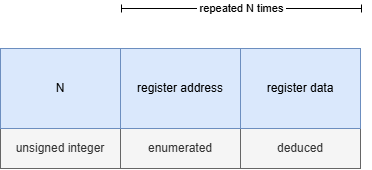
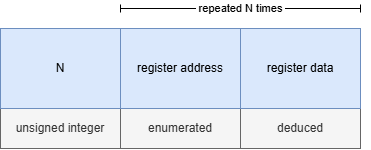
update of TM[2,6]

diff --git a/img/PUSpkt_2_6.html b/img/PUSpkt_2_6.html
@@ -2,11 +2,11 @@
 <!DOCTYPE html>
 <html>
 <head>
-<title>PUS TM[2,6].html</title>
+<title>PUSpkt_2_6.html</title>
 <meta charset="utf-8"/>
 </head>
 <body>
-<div class="mxgraph" style="max-width:100%;border:1px solid transparent;" data-mxgraph="{&quot;highlight&quot;:&quot;#0000ff&quot;,&quot;nav&quot;:true,&quot;resize&quot;:true,&quot;xml&quot;:&quot;&lt;mxfile host=\&quot;app.diagrams.net\&quot;&gt;&lt;diagram name=\&quot;Página-1\&quot; id=\&quot;PEEKEmfRfW4e5rl4SAep\&quot;&gt;&lt;mxGraphModel dx=\&quot;456\&quot; dy=\&quot;462\&quot; grid=\&quot;1\&quot; gridSize=\&quot;10\&quot; guides=\&quot;1\&quot; tooltips=\&quot;1\&quot; connect=\&quot;1\&quot; arrows=\&quot;1\&quot; fold=\&quot;1\&quot; page=\&quot;1\&quot; pageScale=\&quot;1\&quot; pageWidth=\&quot;1169\&quot; pageHeight=\&quot;827\&quot; math=\&quot;0\&quot; shadow=\&quot;0\&quot;&gt;&lt;root&gt;&lt;mxCell id=\&quot;0\&quot;/&gt;&lt;mxCell id=\&quot;1\&quot; parent=\&quot;0\&quot;/&gt;&lt;mxCell id=\&quot;evMKkM_7Siz1nhXzdx8R-12\&quot; parent=\&quot;1\&quot; style=\&quot;rounded=0;whiteSpace=wrap;html=1;fillColor=#f5f5f5;strokeColor=#666666;fontColor=#333333;\&quot; value=\&quot;unsigned integer\&quot; vertex=\&quot;1\&quot;&gt;&lt;mxGeometry height=\&quot;40\&quot; width=\&quot;120\&quot; x=\&quot;39\&quot; y=\&quot;360\&quot; as=\&quot;geometry\&quot;/&gt;&lt;/mxCell&gt;&lt;mxCell id=\&quot;n6o8E1BFqvfT5n5fjlNs-1\&quot; parent=\&quot;1\&quot; style=\&quot;rounded=0;whiteSpace=wrap;html=1;fillColor=#dae8fc;strokeColor=#6c8ebf;\&quot; value=\&quot;N\&quot; vertex=\&quot;1\&quot;&gt;&lt;mxGeometry height=\&quot;80\&quot; width=\&quot;120\&quot; x=\&quot;39\&quot; y=\&quot;280\&quot; as=\&quot;geometry\&quot;/&gt;&lt;/mxCell&gt;&lt;mxCell id=\&quot;hAPcxWkqHWmj-aMiRUPT-1\&quot; parent=\&quot;1\&quot; style=\&quot;rounded=0;whiteSpace=wrap;html=1;fillColor=#f5f5f5;strokeColor=#666666;fontColor=#333333;\&quot; value=\&quot;enumerated\&quot; vertex=\&quot;1\&quot;&gt;&lt;mxGeometry height=\&quot;40\&quot; width=\&quot;120\&quot; x=\&quot;159\&quot; y=\&quot;360\&quot; as=\&quot;geometry\&quot;/&gt;&lt;/mxCell&gt;&lt;mxCell id=\&quot;hAPcxWkqHWmj-aMiRUPT-2\&quot; parent=\&quot;1\&quot; style=\&quot;rounded=0;whiteSpace=wrap;html=1;fillColor=#dae8fc;strokeColor=#6c8ebf;\&quot; value=\&quot;register address\&quot; vertex=\&quot;1\&quot;&gt;&lt;mxGeometry height=\&quot;80\&quot; width=\&quot;120\&quot; x=\&quot;159\&quot; y=\&quot;280\&quot; as=\&quot;geometry\&quot;/&gt;&lt;/mxCell&gt;&lt;mxCell id=\&quot;hAPcxWkqHWmj-aMiRUPT-3\&quot; parent=\&quot;1\&quot; style=\&quot;rounded=0;whiteSpace=wrap;html=1;fillColor=#f5f5f5;strokeColor=#666666;fontColor=#333333;\&quot; value=\&quot;deduced\&quot; vertex=\&quot;1\&quot;&gt;&lt;mxGeometry height=\&quot;40\&quot; width=\&quot;120\&quot; x=\&quot;279\&quot; y=\&quot;360\&quot; as=\&quot;geometry\&quot;/&gt;&lt;/mxCell&gt;&lt;mxCell id=\&quot;hAPcxWkqHWmj-aMiRUPT-4\&quot; parent=\&quot;1\&quot; style=\&quot;rounded=0;whiteSpace=wrap;html=1;fillColor=#dae8fc;strokeColor=#6c8ebf;\&quot; value=\&quot;register data\&quot; vertex=\&quot;1\&quot;&gt;&lt;mxGeometry height=\&quot;80\&quot; width=\&quot;120\&quot; x=\&quot;279\&quot; y=\&quot;280\&quot; as=\&quot;geometry\&quot;/&gt;&lt;/mxCell&gt;&lt;mxCell id=\&quot;Ldrkiri3xN5ep2TePzsf-1\&quot; edge=\&quot;1\&quot; parent=\&quot;1\&quot; style=\&quot;endArrow=baseDash;html=1;rounded=0;startArrow=baseDash;startFill=0;endFill=0;\&quot; value=\&quot;&amp;amp;nbsp;repeated N times&amp;amp;nbsp;\&quot;&gt;&lt;mxGeometry height=\&quot;50\&quot; relative=\&quot;1\&quot; width=\&quot;50\&quot; as=\&quot;geometry\&quot;&gt;&lt;mxPoint x=\&quot;160\&quot; y=\&quot;240\&quot; as=\&quot;sourcePoint\&quot;/&gt;&lt;mxPoint x=\&quot;400\&quot; y=\&quot;240\&quot; as=\&quot;targetPoint\&quot;/&gt;&lt;/mxGeometry&gt;&lt;/mxCell&gt;&lt;/root&gt;&lt;/mxGraphModel&gt;&lt;/diagram&gt;&lt;/mxfile&gt;&quot;,&quot;toolbar&quot;:&quot;pages zoom layers lightbox&quot;,&quot;page&quot;:0}"></div>
+<div class="mxgraph" style="max-width:100%;border:1px solid transparent;" data-mxgraph="{&quot;highlight&quot;:&quot;#0000ff&quot;,&quot;nav&quot;:true,&quot;resize&quot;:true,&quot;xml&quot;:&quot;&lt;mxfile host=\&quot;app.diagrams.net\&quot;&gt;&lt;diagram name=\&quot;Página-1\&quot; id=\&quot;PEEKEmfRfW4e5rl4SAep\&quot;&gt;&lt;mxGraphModel dx=\&quot;1040\&quot; dy=\&quot;1040\&quot; grid=\&quot;1\&quot; gridSize=\&quot;10\&quot; guides=\&quot;1\&quot; tooltips=\&quot;1\&quot; connect=\&quot;1\&quot; arrows=\&quot;1\&quot; fold=\&quot;1\&quot; page=\&quot;1\&quot; pageScale=\&quot;1\&quot; pageWidth=\&quot;1169\&quot; pageHeight=\&quot;827\&quot; math=\&quot;0\&quot; shadow=\&quot;0\&quot;&gt;&lt;root&gt;&lt;mxCell id=\&quot;0\&quot;/&gt;&lt;mxCell id=\&quot;1\&quot; parent=\&quot;0\&quot;/&gt;&lt;mxCell id=\&quot;evMKkM_7Siz1nhXzdx8R-12\&quot; parent=\&quot;1\&quot; style=\&quot;rounded=0;whiteSpace=wrap;html=1;fillColor=#f5f5f5;strokeColor=#666666;fontColor=#333333;\&quot; value=\&quot;unsigned integer\&quot; vertex=\&quot;1\&quot;&gt;&lt;mxGeometry height=\&quot;40\&quot; width=\&quot;120\&quot; x=\&quot;39\&quot; y=\&quot;360\&quot; as=\&quot;geometry\&quot;/&gt;&lt;/mxCell&gt;&lt;mxCell id=\&quot;n6o8E1BFqvfT5n5fjlNs-1\&quot; parent=\&quot;1\&quot; style=\&quot;rounded=0;whiteSpace=wrap;html=1;fillColor=#dae8fc;strokeColor=#6c8ebf;\&quot; value=\&quot;N\&quot; vertex=\&quot;1\&quot;&gt;&lt;mxGeometry height=\&quot;80\&quot; width=\&quot;120\&quot; x=\&quot;39\&quot; y=\&quot;280\&quot; as=\&quot;geometry\&quot;/&gt;&lt;/mxCell&gt;&lt;mxCell id=\&quot;hAPcxWkqHWmj-aMiRUPT-1\&quot; parent=\&quot;1\&quot; style=\&quot;rounded=0;whiteSpace=wrap;html=1;fillColor=#f5f5f5;strokeColor=#666666;fontColor=#333333;\&quot; value=\&quot;enumerated\&quot; vertex=\&quot;1\&quot;&gt;&lt;mxGeometry height=\&quot;40\&quot; width=\&quot;120\&quot; x=\&quot;159\&quot; y=\&quot;360\&quot; as=\&quot;geometry\&quot;/&gt;&lt;/mxCell&gt;&lt;mxCell id=\&quot;hAPcxWkqHWmj-aMiRUPT-2\&quot; parent=\&quot;1\&quot; style=\&quot;rounded=0;whiteSpace=wrap;html=1;fillColor=#dae8fc;strokeColor=#6c8ebf;\&quot; value=\&quot;register address\&quot; vertex=\&quot;1\&quot;&gt;&lt;mxGeometry height=\&quot;80\&quot; width=\&quot;120\&quot; x=\&quot;159\&quot; y=\&quot;280\&quot; as=\&quot;geometry\&quot;/&gt;&lt;/mxCell&gt;&lt;mxCell id=\&quot;hAPcxWkqHWmj-aMiRUPT-3\&quot; parent=\&quot;1\&quot; style=\&quot;rounded=0;whiteSpace=wrap;html=1;fillColor=#f5f5f5;strokeColor=#666666;fontColor=#333333;\&quot; value=\&quot;deduced\&quot; vertex=\&quot;1\&quot;&gt;&lt;mxGeometry height=\&quot;40\&quot; width=\&quot;120\&quot; x=\&quot;279\&quot; y=\&quot;360\&quot; as=\&quot;geometry\&quot;/&gt;&lt;/mxCell&gt;&lt;mxCell id=\&quot;hAPcxWkqHWmj-aMiRUPT-4\&quot; parent=\&quot;1\&quot; style=\&quot;rounded=0;whiteSpace=wrap;html=1;fillColor=#dae8fc;strokeColor=#6c8ebf;\&quot; value=\&quot;register data\&quot; vertex=\&quot;1\&quot;&gt;&lt;mxGeometry height=\&quot;80\&quot; width=\&quot;120\&quot; x=\&quot;279\&quot; y=\&quot;280\&quot; as=\&quot;geometry\&quot;/&gt;&lt;/mxCell&gt;&lt;mxCell id=\&quot;Ldrkiri3xN5ep2TePzsf-1\&quot; edge=\&quot;1\&quot; parent=\&quot;1\&quot; style=\&quot;endArrow=baseDash;html=1;rounded=0;startArrow=baseDash;startFill=0;endFill=0;\&quot; value=\&quot;&amp;amp;nbsp;repeated N times&amp;amp;nbsp;\&quot;&gt;&lt;mxGeometry height=\&quot;50\&quot; relative=\&quot;1\&quot; width=\&quot;50\&quot; as=\&quot;geometry\&quot;&gt;&lt;mxPoint x=\&quot;159\&quot; y=\&quot;260\&quot; as=\&quot;sourcePoint\&quot;/&gt;&lt;mxPoint x=\&quot;399\&quot; y=\&quot;260\&quot; as=\&quot;targetPoint\&quot;/&gt;&lt;/mxGeometry&gt;&lt;/mxCell&gt;&lt;/root&gt;&lt;/mxGraphModel&gt;&lt;/diagram&gt;&lt;/mxfile&gt;&quot;,&quot;toolbar&quot;:&quot;pages zoom layers lightbox&quot;,&quot;page&quot;:0}"></div>
 <script type="text/javascript" src="https://app.diagrams.net/js/viewer-static.min.js"></script>
 </body>
 </html>
